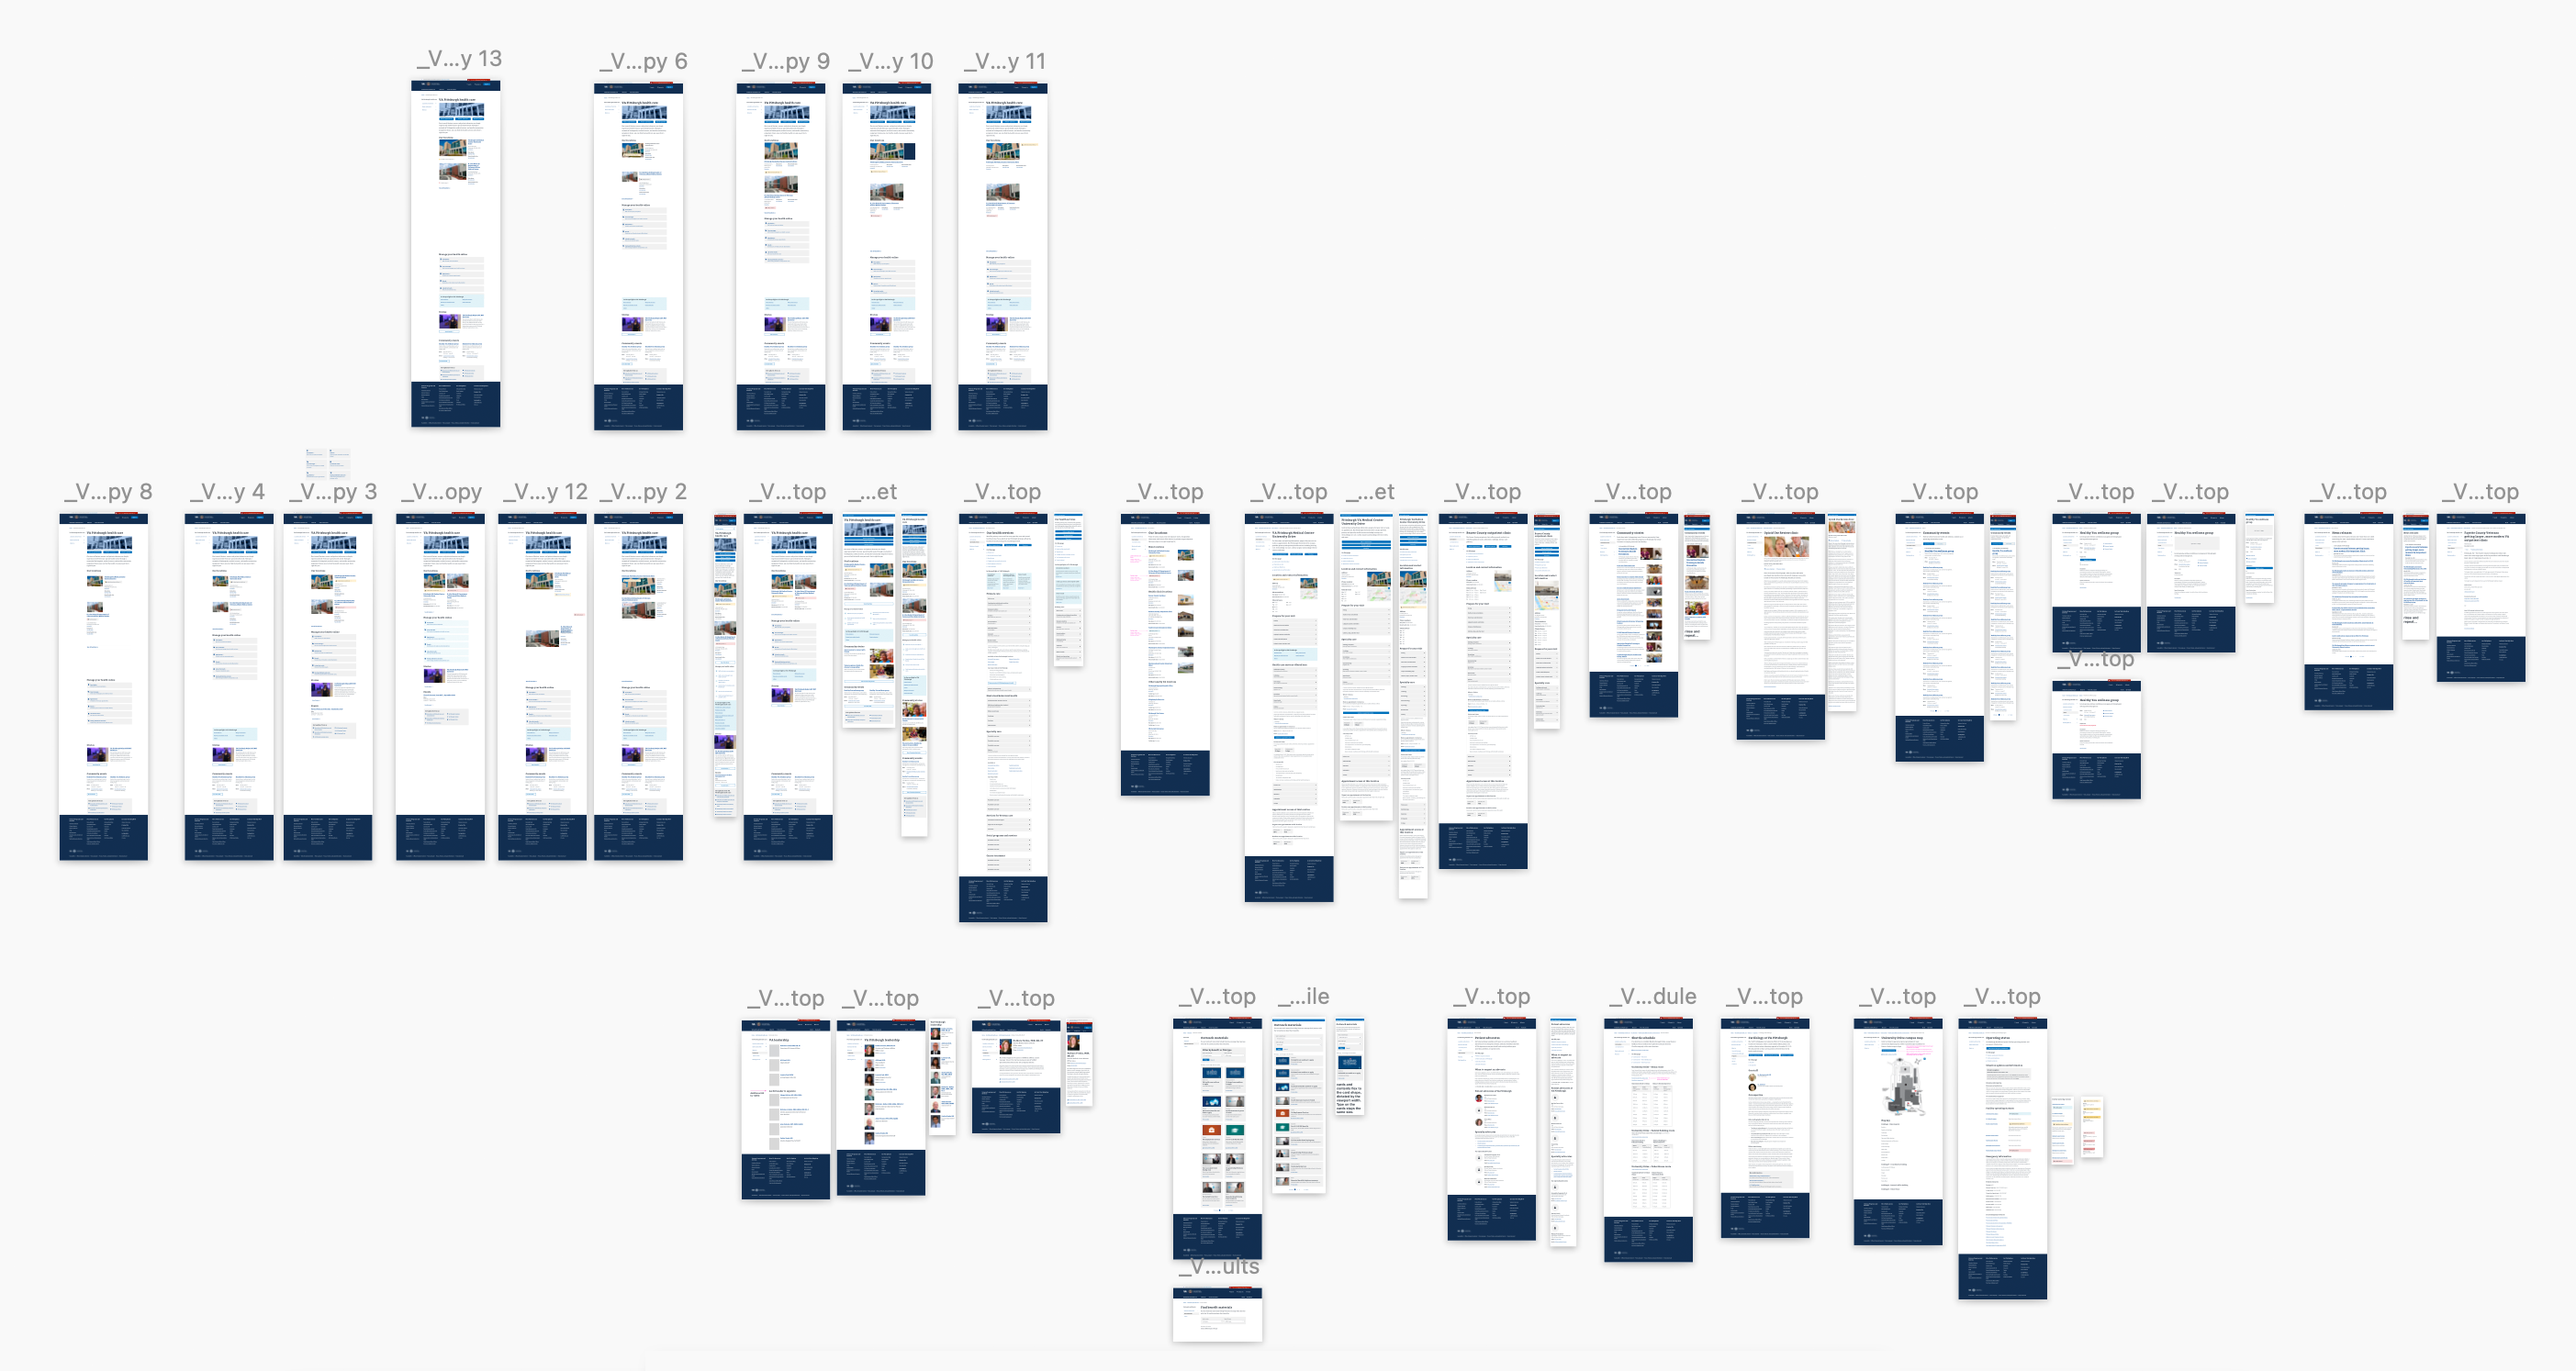
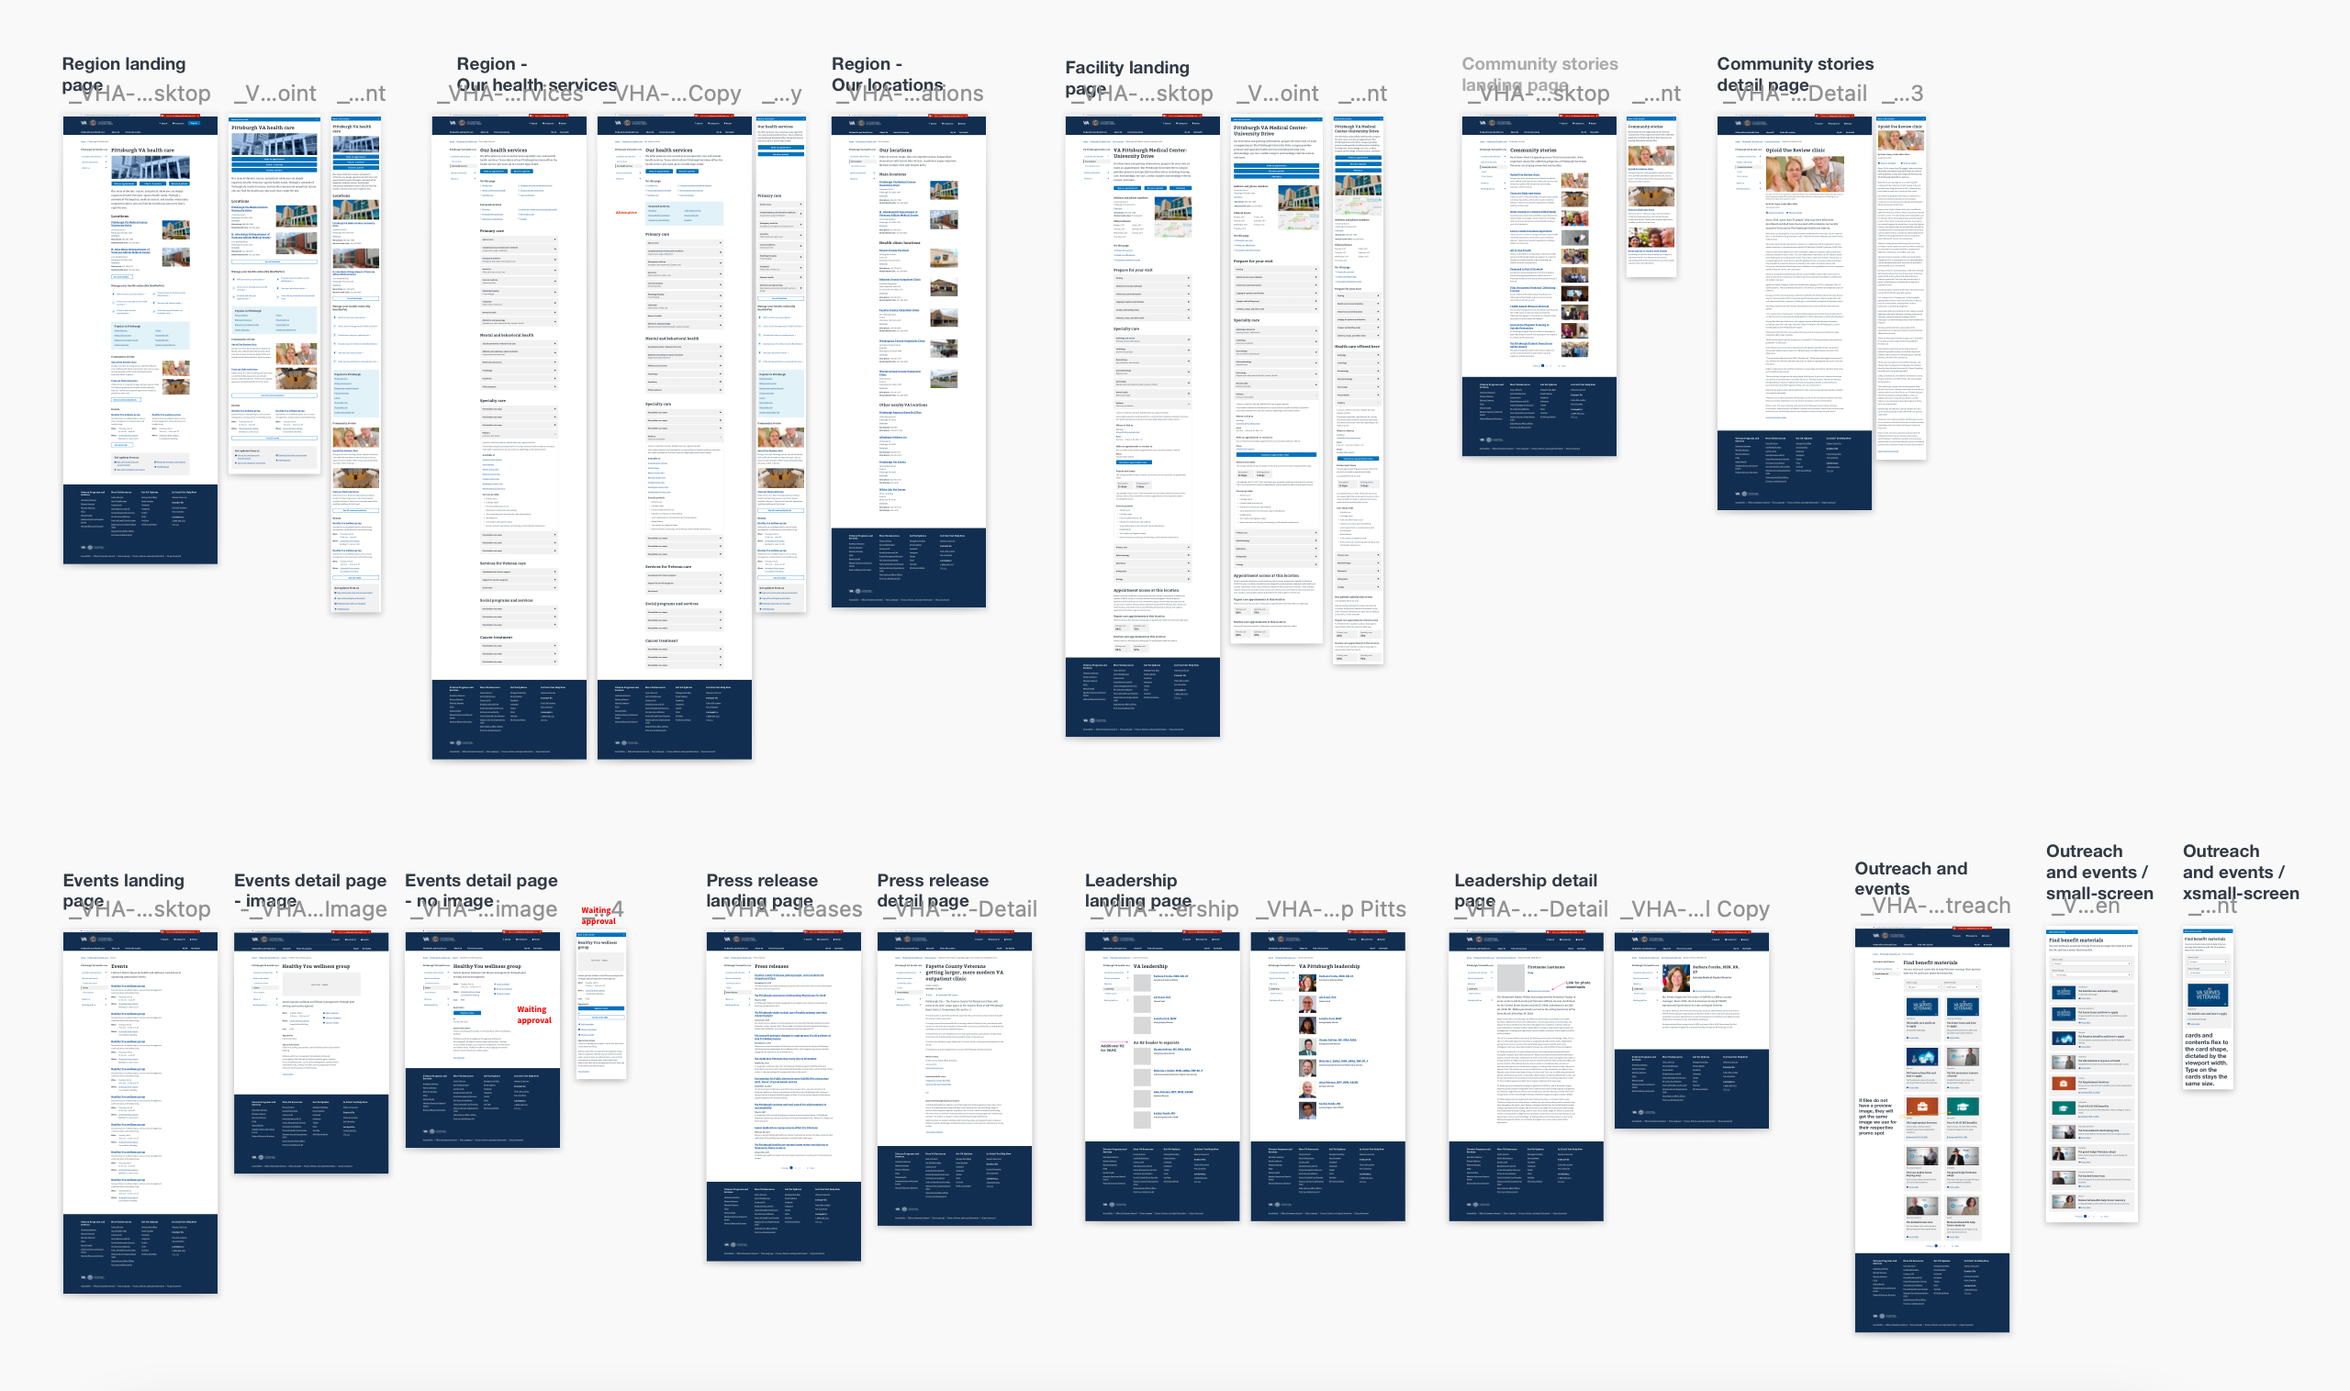
adsf

Changed region(s): [[0.0, 0.0308, 1.0, 0.9853], [0.875, 0.7082, 0.9688, 0.8929]]

diff --git a/va-os.html b/va-os.html
@@ -1,0 +1,51 @@
+<!DOCTYPE html>
+<html>
+
+    <head>
+        <meta charset="utf-8">
+        <meta http-equiv="X-UA-Compatible" content="IE=edge">
+        <meta name="viewport" content="width=device-width, initial-scale=1, maximum-scale=1" />
+        <title>Ryan Thurlwell / Projects / VA Online Scheduling Tool</title>
+        <meta name="description" content="rtwell.com">
+        <link rel="stylesheet" href="styles.css">
+    </head>
+    <body>
+        <div class="container-fluid">
+        <div class="container">
+
+            <a class="button" href="index.html">
+                <img src="./images/left-carat.svg" onerror="back-arrow='left-carat.png" width="16px" height="24px">
+            </a>
+        <h1>VA Online Scheduling Tool</h1>
+        <h2 class="h2-simple">The problem</h2>
+        <p>The previous VA Online Scheduling Tool lived on a separate URL, didn't us the VA.gov design system, and most importantly, delivered a broken UX to Veterans.
+
+        <h2 class="h2-simple">The solution</h2>
+        <p>Migrate the legacy tool onto the new VA.gov tech stack.
+
+        <h2 class="h2-simple">My role</h2>
+        <p>My responsibilities included working with multiple stakeholders to gain alignment on project goals, including getting buy-in from different departments inside of VA. I worked with contractors and engineers to 
+
+
+          I worked with expert content strategists and product owners to develop various design templates (e.g. a FAQ page, a Questions and Answers page, etc) that works with the VA design system. These templates were designed from scratch, using previous VA websites as samples. We worked together to provide documentation on how they are built, how they should be used (including guidance in the Drupal authoring experience), and how they will improve usability.</p>
+        <p>View a <a href="https://app.mural.co/t/departmentofveteransaffairs9999/m/departmentofveteransaffairs9999/1588167553516/2773c854e8ff3a725a5e3ee03272b78e8519f78b?sender=419a133c-cf61-4698-91a9-a8aa5a2966b2" target="_blank"> mural board</a> of all of the templates.
+
+        <div class="caption">
+            <p>Mobile and desktop design for the landing page</p>
+            <img src="./images/va-rs-home-1.png" alt="Mobile and desktop design for the landing page">
+
+            <p>Mobile and desktop design for the step-by-step template</p>
+            <img src="./images/va-rs-steps-1.png" alt="Mobile and desktop design for the landing page">
+
+
+
+
+
+        </div>
+            <a class="button" href="index.html">
+            <img src="./images/left-carat.svg" onerror="back-arrow='left-carat.png" width="16px" height="24px">
+            </a>
+     </div>
+   </div>
+    </body>
+</html>

diff --git a/va-clp.html b/va-clp.html
@@ -24,7 +24,7 @@
         <p>We believed strongly in mkaing it easy to do the right thing, rather than make it hard to do the wrong thing. To curb the VA business's prolific website creation habits, we developed easy to use Drupal templates and provided rigid guidance on their use, including adding time limits, so that websites can be retired once they are out of use. Read in depth our prolem statements, outcomes, OKRs, and assumptions on the <a href="https://github.com/department-of-veterans-affairs/va.gov-team/tree/01128645847a404f20063cbf37e8e156327a14de/products/content/tier-2-content-IA-and-design/campaign-landing-page-templates" target="_blank">product readme</a>.
 
         <h2 class="h2-simple">My role</h2>
-        <p>I worked with expert content strategists to develop various design templates that work with the VA design system. These templates were designed from scratch, using previous VA websites as samples. We worked together to provide documentation on how they are built, how they should be used (including guidance in the Drupal authoring experience), and how they will improve usability.</p>
+        <p>I worked with expert content strategists, engineers, and product owners to develop various design templates that work with the VA design system. These templates were designed from scratch, using previous VA websites as samples. We worked together to provide documentation on how they are built, how they should be used (including guidance in the Drupal authoring experience), and how they will improve usability.</p>
 
         <div class="caption">
             <p>mobile and desktop maximal campaign landing page designs</p>

diff --git a/va-rs.html b/va-rs.html
@@ -24,7 +24,7 @@
         <p>Develop a Drupal-based content management system called Resources and Support that enables VA to easily migrate or rewrite content but also serve as a knowledge base for Veterans and others to access relevant content and connect them to appropriate benefit services and tools.
 
         <h2 class="h2-simple">My role</h2>
-        <p>I worked with expert content strategists and product owners to develop various design templates (e.g. a FAQ page, a Questions and Answers page, etc) that works with the VA design system. These templates were designed from scratch, using previous VA websites as samples. We worked together to provide documentation on how they are built, how they should be used (including guidance in the Drupal authoring experience), and how they will improve usability.</p>
+        <p>I worked with expert content strategists, engineers, and product owners to develop various design templates (e.g. a FAQ page, a Questions and Answers page, etc) that works with the VA design system. These templates were designed from scratch, using previous VA websites as samples. We worked together to provide documentation on how they are built, how they should be used (including guidance in the Drupal authoring experience), and how they will improve usability.</p>
         <p>View a <a href="https://app.mural.co/t/departmentofveteransaffairs9999/m/departmentofveteransaffairs9999/1588167553516/2773c854e8ff3a725a5e3ee03272b78e8519f78b?sender=419a133c-cf61-4698-91a9-a8aa5a2966b2" target="_blank"> mural board</a> of all of the templates.
 
         <div class="caption">

diff --git a/va-mc.html b/va-mc.html
@@ -24,7 +24,7 @@
         <p>An all-new, user-first digital experience for Veterans, family members, and caregivers that provides solutions to key touch points in the end-to-end VA health care journey.
 
         <h2 class="h2-simple">My role</h2>
-        <p>I worked with expert content strategists, reserachers, and product owners to develop a mobile-first user experience that gets users to all content and tools in just 1 to 2 clicks. Most of my time was spent on the visual design of the VAMC drupal templates, but I also participated in stakeholder management, user research, and product strategy.
+        <p>I worked with expert content strategists, reserachers, engineers, and product owners to develop a mobile-first user experience that gets users to all content and tools in just 1 to 2 clicks. Most of my time was spent on the visual design of the VAMC drupal templates, but I also participated in stakeholder management, user research, and product strategy.
 
 
         <div class="caption">

diff --git a/index.html b/index.html
@@ -28,10 +28,11 @@
           <ul>
               <li><a href="va-design-system.html">VA Design System</a></li>
               <li><a href="va-mc.html">VA Medical Centers</a></li>
+              <li><a href="va-os.html">VA Online Scheduling Tool</a></li>
               <li><a href="va-rs.html">VA Resources and Support</a></li>
               <li><a href="va-clp.html">VA Campaign Landing Pages</a></li>
               <li><a href="login-gov.html">login.gov</a></li>
-              <li><a href="census.html">U.S. Census Bureau design guidelines</a></li>
+              <li><a href="census.html">U.S. Census Bureau Design Guidelines</a></li>
               <li><a href="cloud-gov.html">cloud.gov</a></li>
               <li><a href="uscis.html">U.S. Citizenship and Immigration Services</a></li>
               <li><a href="pl.html">plainlanguage.gov</a></li>
